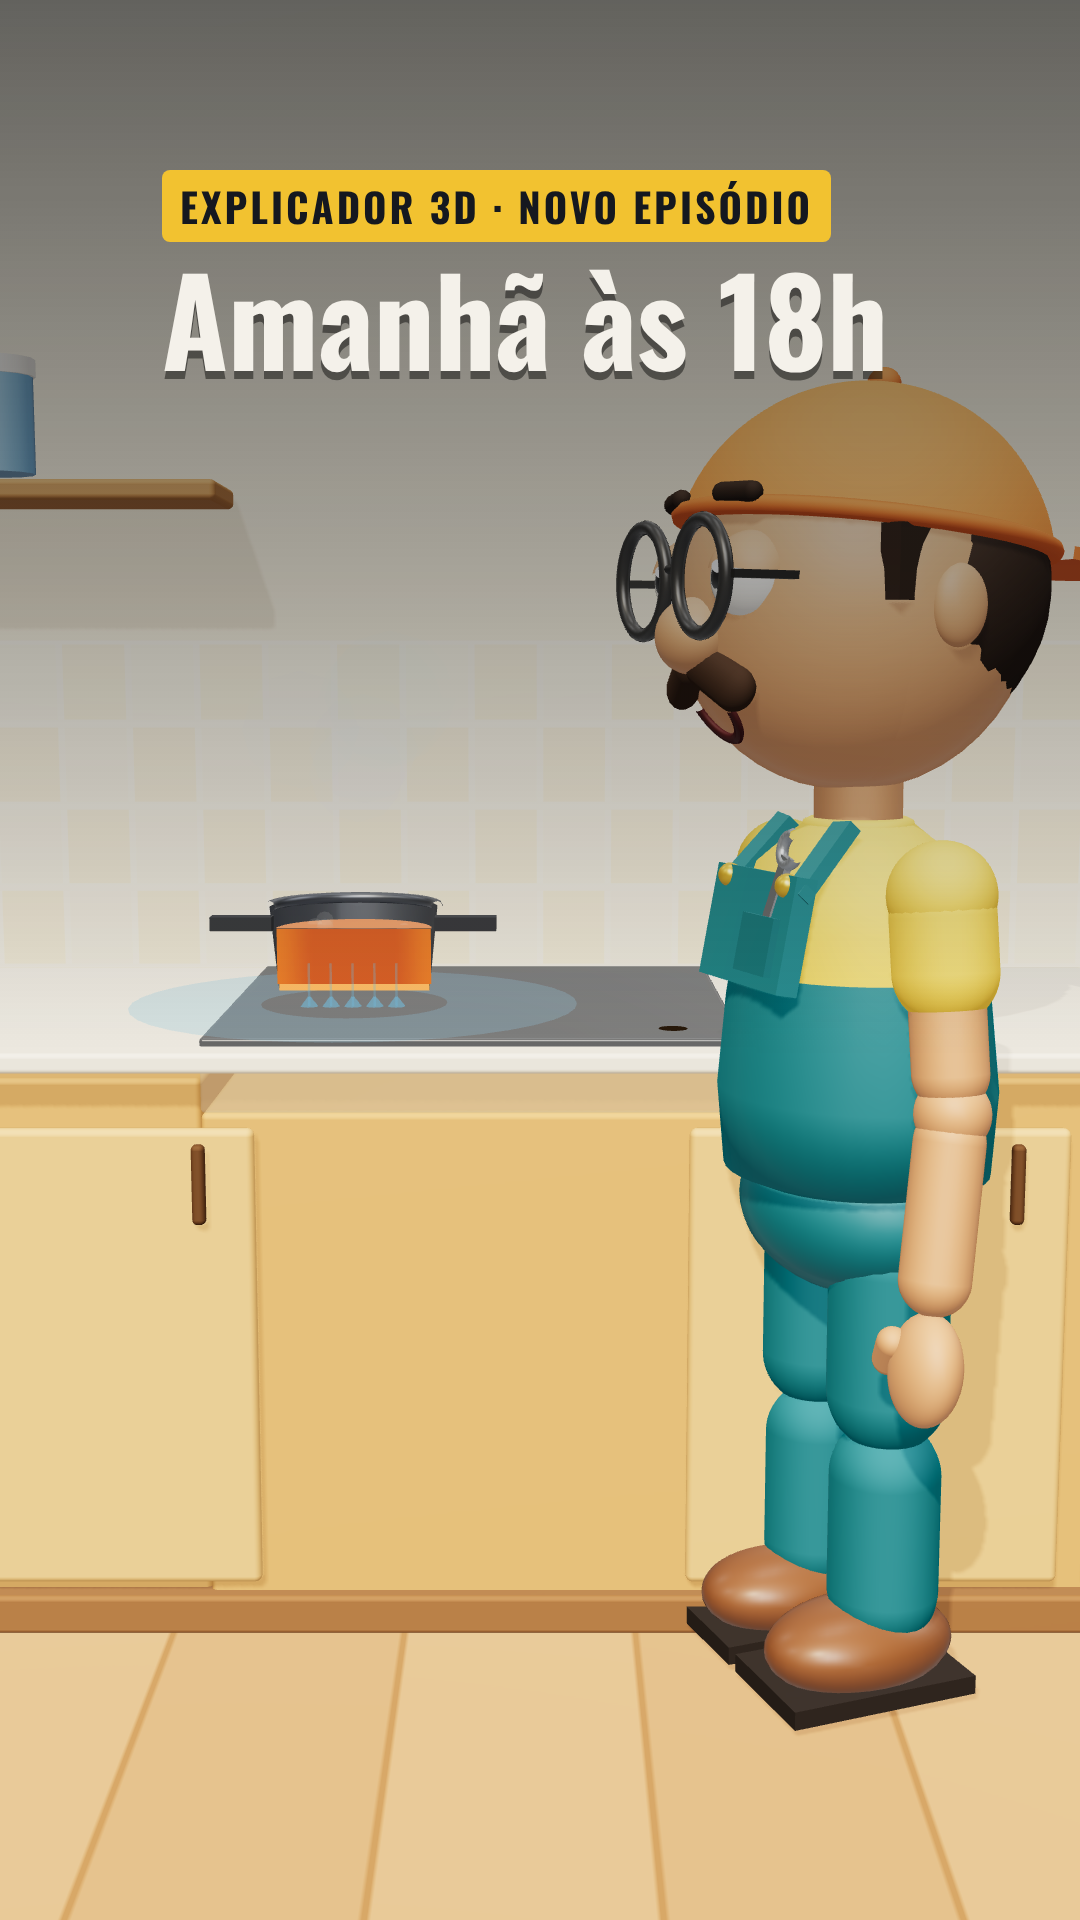
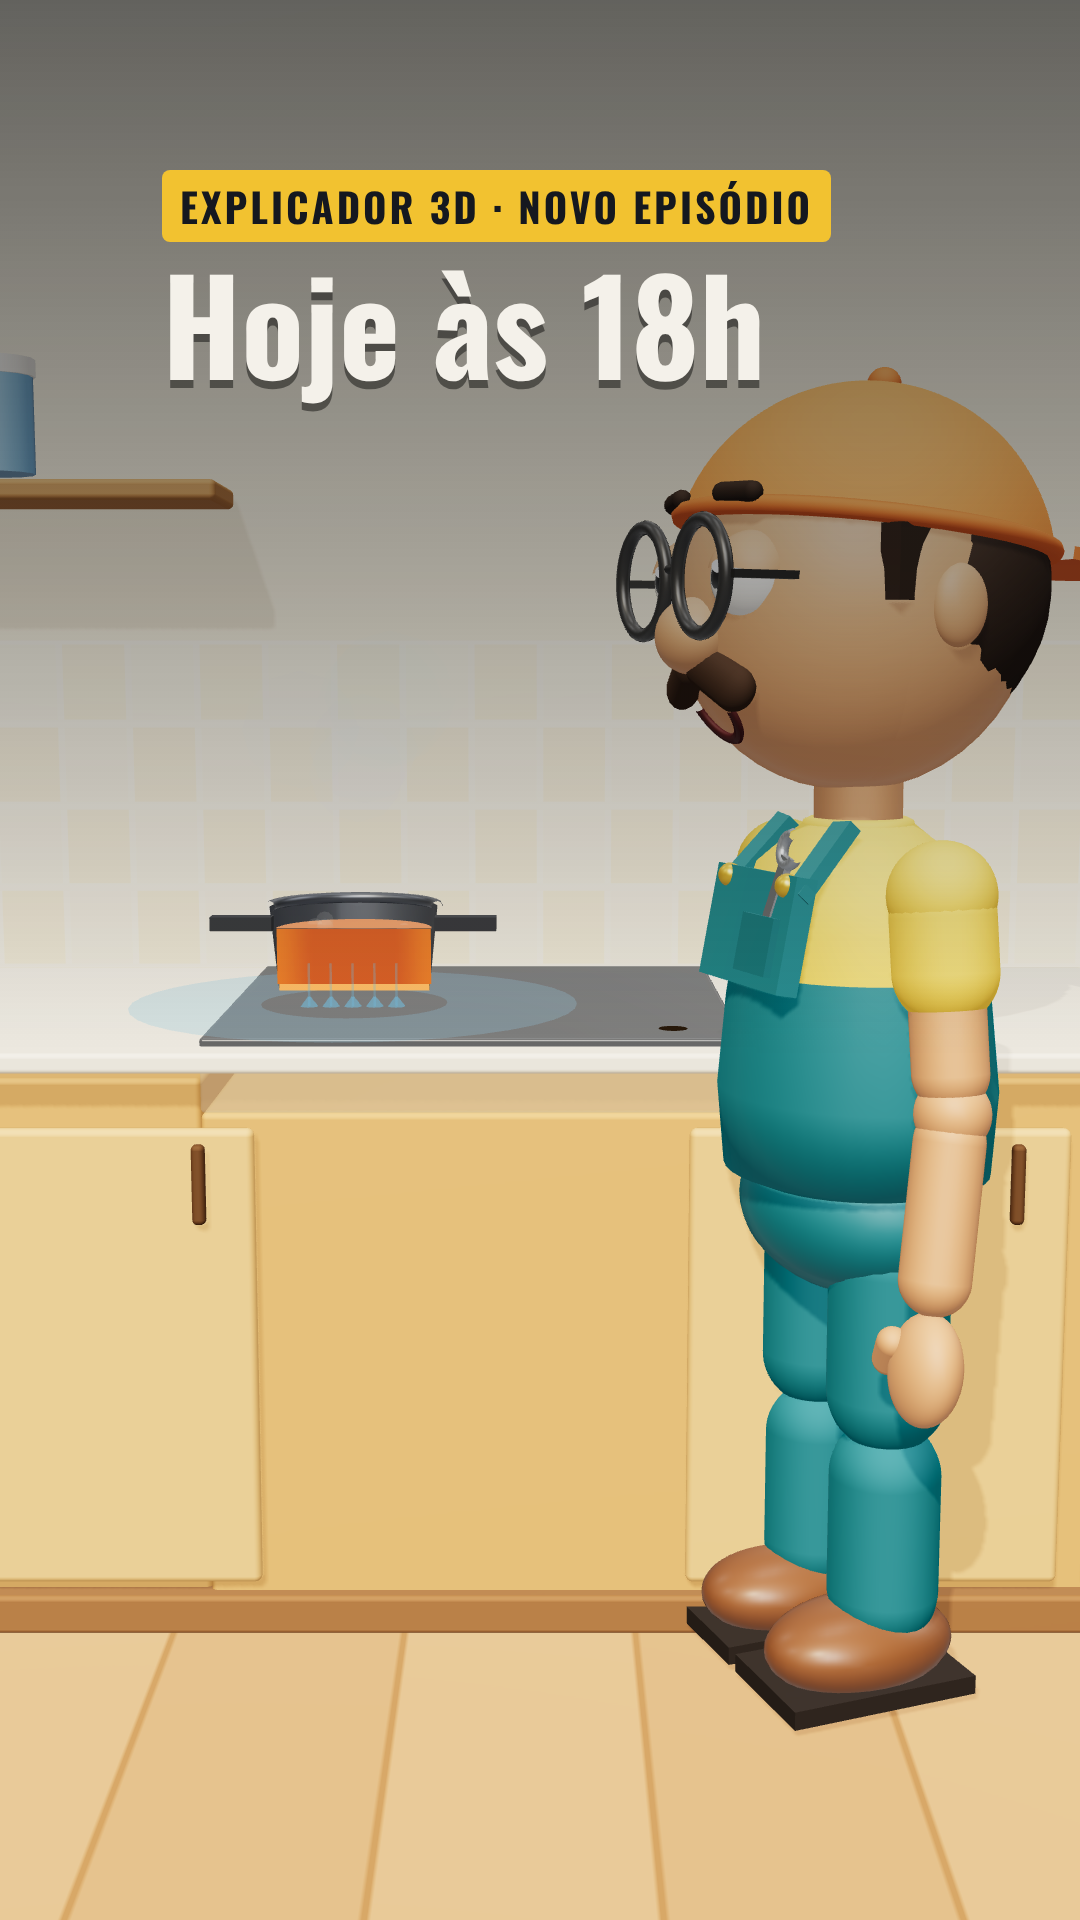
Calendário dos educativos: micro-ondas na quarta, indução na quinta, cadência quarta/quinta/sexta
Artes de aviso passam a dizer 'Hoje às 18h' (o aviso sai no mesmo dia, 13:30) e o COMO-CONTINUAR registra as datas novas.

Changed region(s): [[0.1528, 0.125, 0.825, 0.2188]]

diff --git a/tasks/COMO-CONTINUAR.md b/tasks/COMO-CONTINUAR.md
@@ -29,7 +29,7 @@ morava no repositório do plugin, na branch `feat/motor-3d`).
      `python3 tasks/geradores/bunker.py episodios/bunker/roteiro.json`. Fecho com risada (`[laughs]` no `eleven_v4`) e 27,5 efeitos/min (aprovados).
   8. `airfryer`: "Como fritar batata sem fritura?" (revela a **airfryer** só na batida 24; `"episodio": 9`), cenário `cozinha` (fogão com forno,
      caixinha na bancada, airfryer, micro-ondas), cartão `atencao`. Texto v2 em `tasks/roteiro-airfryer.md` (30 batidas). **Status: vídeo
-     pronto para a pessoa assistir (02/11/2026)**, `motor/out/final-airfryer.mp4`, 1:56, −14,1 LUFS, −2,4 dBTP. **Aprovado pela pessoa (03/11/2026)**, pasta `08-airfryer/` no NAS pronta. Publisher (série `educativos`, conta `curiosidades_desenroladas`, terça/quinta/sábado 18:00): conteúdo cadastrado como rascunho (id `10ffd41a590a349f484a1f50ff4ad36b`); **publicado em 03/11/2026** (aviso 18:14, vídeo 18:31 e story "já saiu" 18:31, na conta certa; o dia foi movido de 04/11 para 03/11). O micro-ondas já está agendado para 06/11 18:00 (id do conteúdo `287e858af4a6a34f6083be6eb8b8aee0`). Stories: aviso (arte de horário) 4–5 h antes e "já saiu" 1 min depois do vídeo (sem link). **Primeiro comentário fixado** (revela o nome do aparelho, pergunta algo e avisa o próximo) configurado nos dois vídeos via `update_content`; episódios novos precisam do próprio `first_comment` (a série não tem padrão). Publisher: `http://192.168.178.79:9090/mcp`; se as ferramentas sumirem, `/mcp` e reconectar. Gerador:
+     pronto para a pessoa assistir (02/11/2026)**, `motor/out/final-airfryer.mp4`, 1:56, −14,1 LUFS, −2,4 dBTP. **Aprovado pela pessoa (03/11/2026)**, pasta `08-airfryer/` no NAS pronta. Publisher (série `educativos`, conta `curiosidades_desenroladas`, terça/quinta/sábado 18:00): conteúdo cadastrado como rascunho (id `10ffd41a590a349f484a1f50ff4ad36b`); **publicado em 03/11/2026** (aviso 18:14, vídeo 18:31 e story "já saiu" 18:31, na conta certa; o dia foi movido de 04/11 para 03/11). O micro-ondas está agendado para qua 04/11 18:00 (id do conteúdo `287e858af4a6a34f6083be6eb8b8aee0`). Stories: aviso (arte de horário) 4–5 h antes e "já saiu" 1 min depois do vídeo (sem link). **Primeiro comentário fixado** (revela o nome do aparelho, pergunta algo e avisa o próximo) configurado nos dois vídeos via `update_content`; episódios novos precisam do próprio `first_comment` (a série não tem padrão). Publisher: `http://192.168.178.79:9090/mcp`; se as ferramentas sumirem, `/mcp` e reconectar. Gerador:
      `python3 tasks/geradores/airfryer.py episodios/airfryer/roteiro.json`. Gancho final: micro-ondas (próximo episódio).
   9. `microondas`: "Como esquentar comida sem fogo?" (revela o **micro-ondas** só na batida 15; `"episodio": 10`), cenário `microondas`
      (reaproveita `cozinha-*`; lupas com a molécula de água, magnetron, caixa de metal, tela da porta, prato giratório), cartão `contador245`.
@@ -41,7 +41,7 @@ morava no repositório do plugin, na branch `feat/motor-3d`).
   10. `inducao`: "Como esquentar a panela sem esquentar a mão?" (revela o **fogão de indução** só na batida 16; `"episodio": 11` no roteiro, número 10 no publisher), cenário
      `inducao` (acampamento, gás, cooktop de vidro, bobina em raio-X, lupa das correntes, ímã). Texto em `tasks/roteiro-inducao.md` (20 batidas; sem gancho do
      celular: o fim é "siga pra descobrir"). Gerador: `python3 tasks/geradores/inducao.py episodios/inducao/roteiro.json`. **Vídeo gerado (03/11/2026)**:
-     `episodios/inducao/final.mp4` (1:23, −14,4 LUFS, pico −3,4 dBFS), NAS `10-inducao/`. Publisher: cadastrado e agendado para 04/11 18:00 (aviso 13:30, "já saiu"
+     `episodios/inducao/final.mp4` (1:23, −14,4 LUFS, pico −3,4 dBFS), NAS `10-inducao/`. Publisher: cadastrado e agendado para qui 05/11 18:00 (aviso 13:30, "já saiu"
      18:01); **aprovado pela pessoa (03/11/2026)**; ainda pendente de publicação. **Pontos fracos conhecidos:** o Zeca fica atrás dos botões do Reels em várias batidas; a bobina em raio-X quase não se vê; fogueira pequena na faixa da legenda.
      Regras: tudo do episódio sempre dentro da pasta do episódio (repo e NAS); cada episódio leva dois stories (aviso 4–5 h antes, "já saiu" 1 min depois);
      caminho de mídia no publisher é relativo (`Videos Curtos/...`). Se o story sair na conta errada, suspeitar de cache do publisher (foi o que aconteceu em 03/11).

diff --git a/episodios/inducao/publicacao/textos.md b/episodios/inducao/publicacao/textos.md
@@ -73,7 +73,7 @@ Quanto tempo o vidro do fogão fica quente depois de desligar?
 
 ## Artes
 
-- Capa: `publicacao/capa.png`. Arte de horário: `publicacao/story-horario.png` ("Amanhã às 18h"). Arte de "já saiu": `publicacao/story-ja-saiu.png` (mesmo quadro da capa, selo NOVO EPISÓDIO).
+- Capa: `publicacao/capa.png`. Arte de horário: `publicacao/story-horario.png` ("Hoje às 18h", o aviso sai no mesmo dia, às 13:30). Arte de "já saiu": `publicacao/story-ja-saiu.png` (mesmo quadro da capa, selo NOVO EPISÓDIO).
 
 ## Checklist
 

diff --git a/tasks/publicacao/inducao-textos.md b/tasks/publicacao/inducao-textos.md
@@ -73,7 +73,7 @@ Quanto tempo o vidro do fogão fica quente depois de desligar?
 
 ## Artes
 
-- Capa: `publicacao/capa.png`. Arte de horário: `publicacao/story-horario.png` ("Amanhã às 18h"). Arte de "já saiu": `publicacao/story-ja-saiu.png` (mesmo quadro da capa, selo NOVO EPISÓDIO).
+- Capa: `publicacao/capa.png`. Arte de horário: `publicacao/story-horario.png` ("Hoje às 18h", o aviso sai no mesmo dia, às 13:30). Arte de "já saiu": `publicacao/story-ja-saiu.png` (mesmo quadro da capa, selo NOVO EPISÓDIO).
 
 ## Checklist
 
